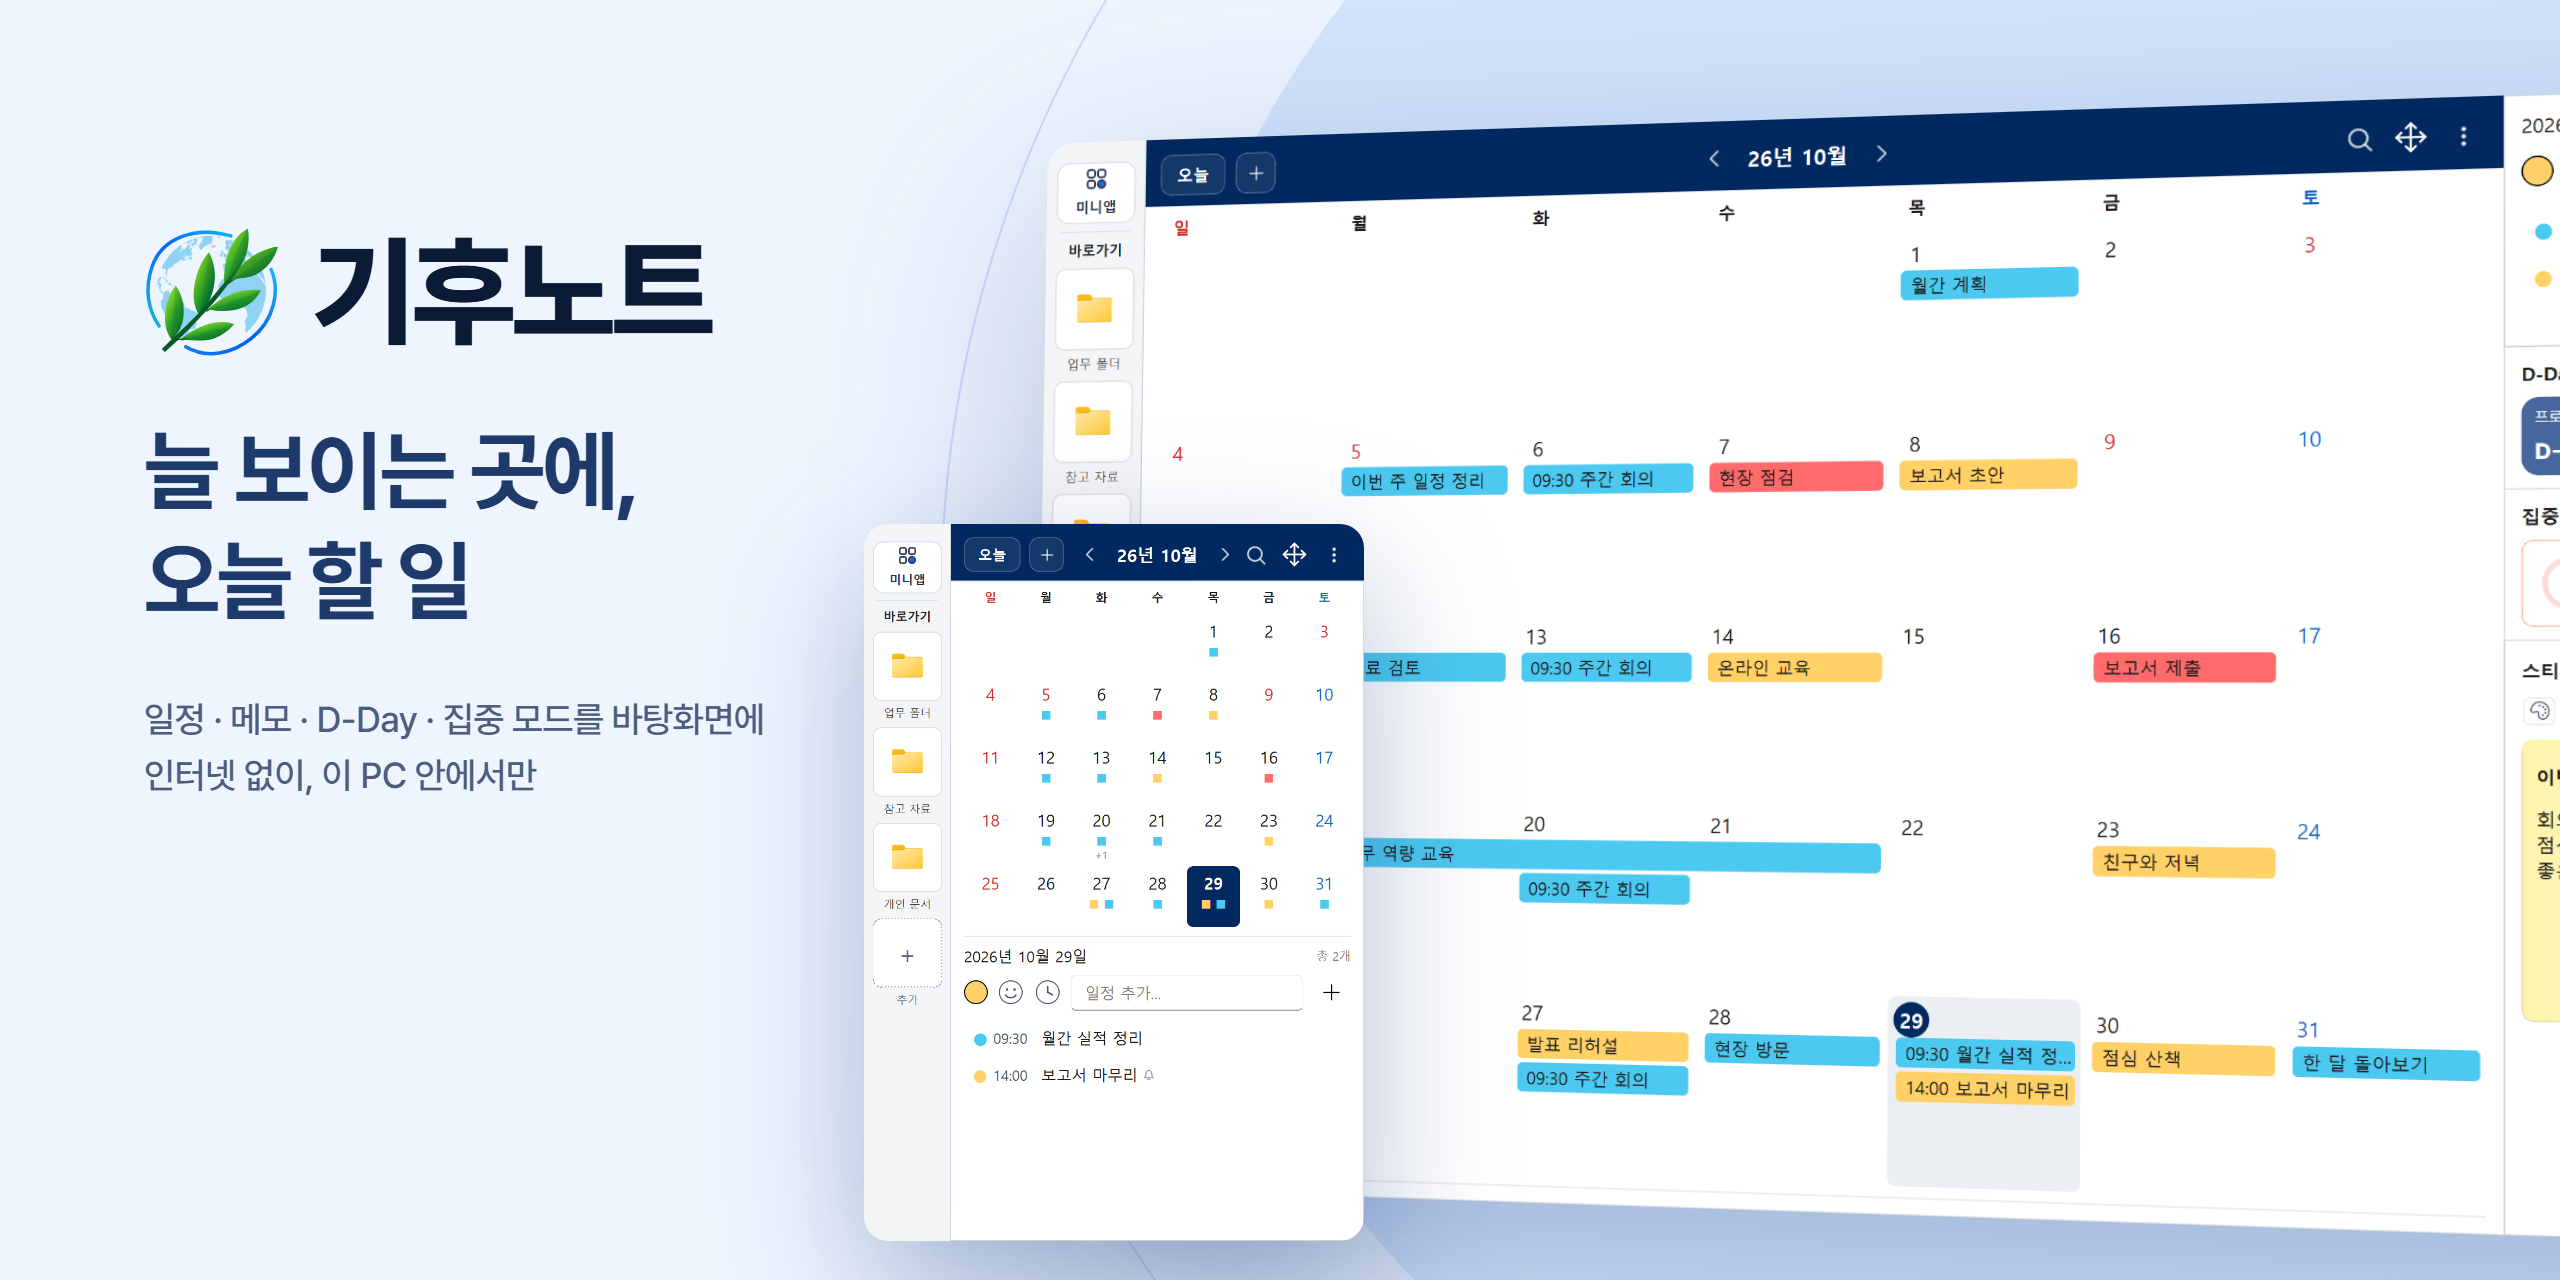
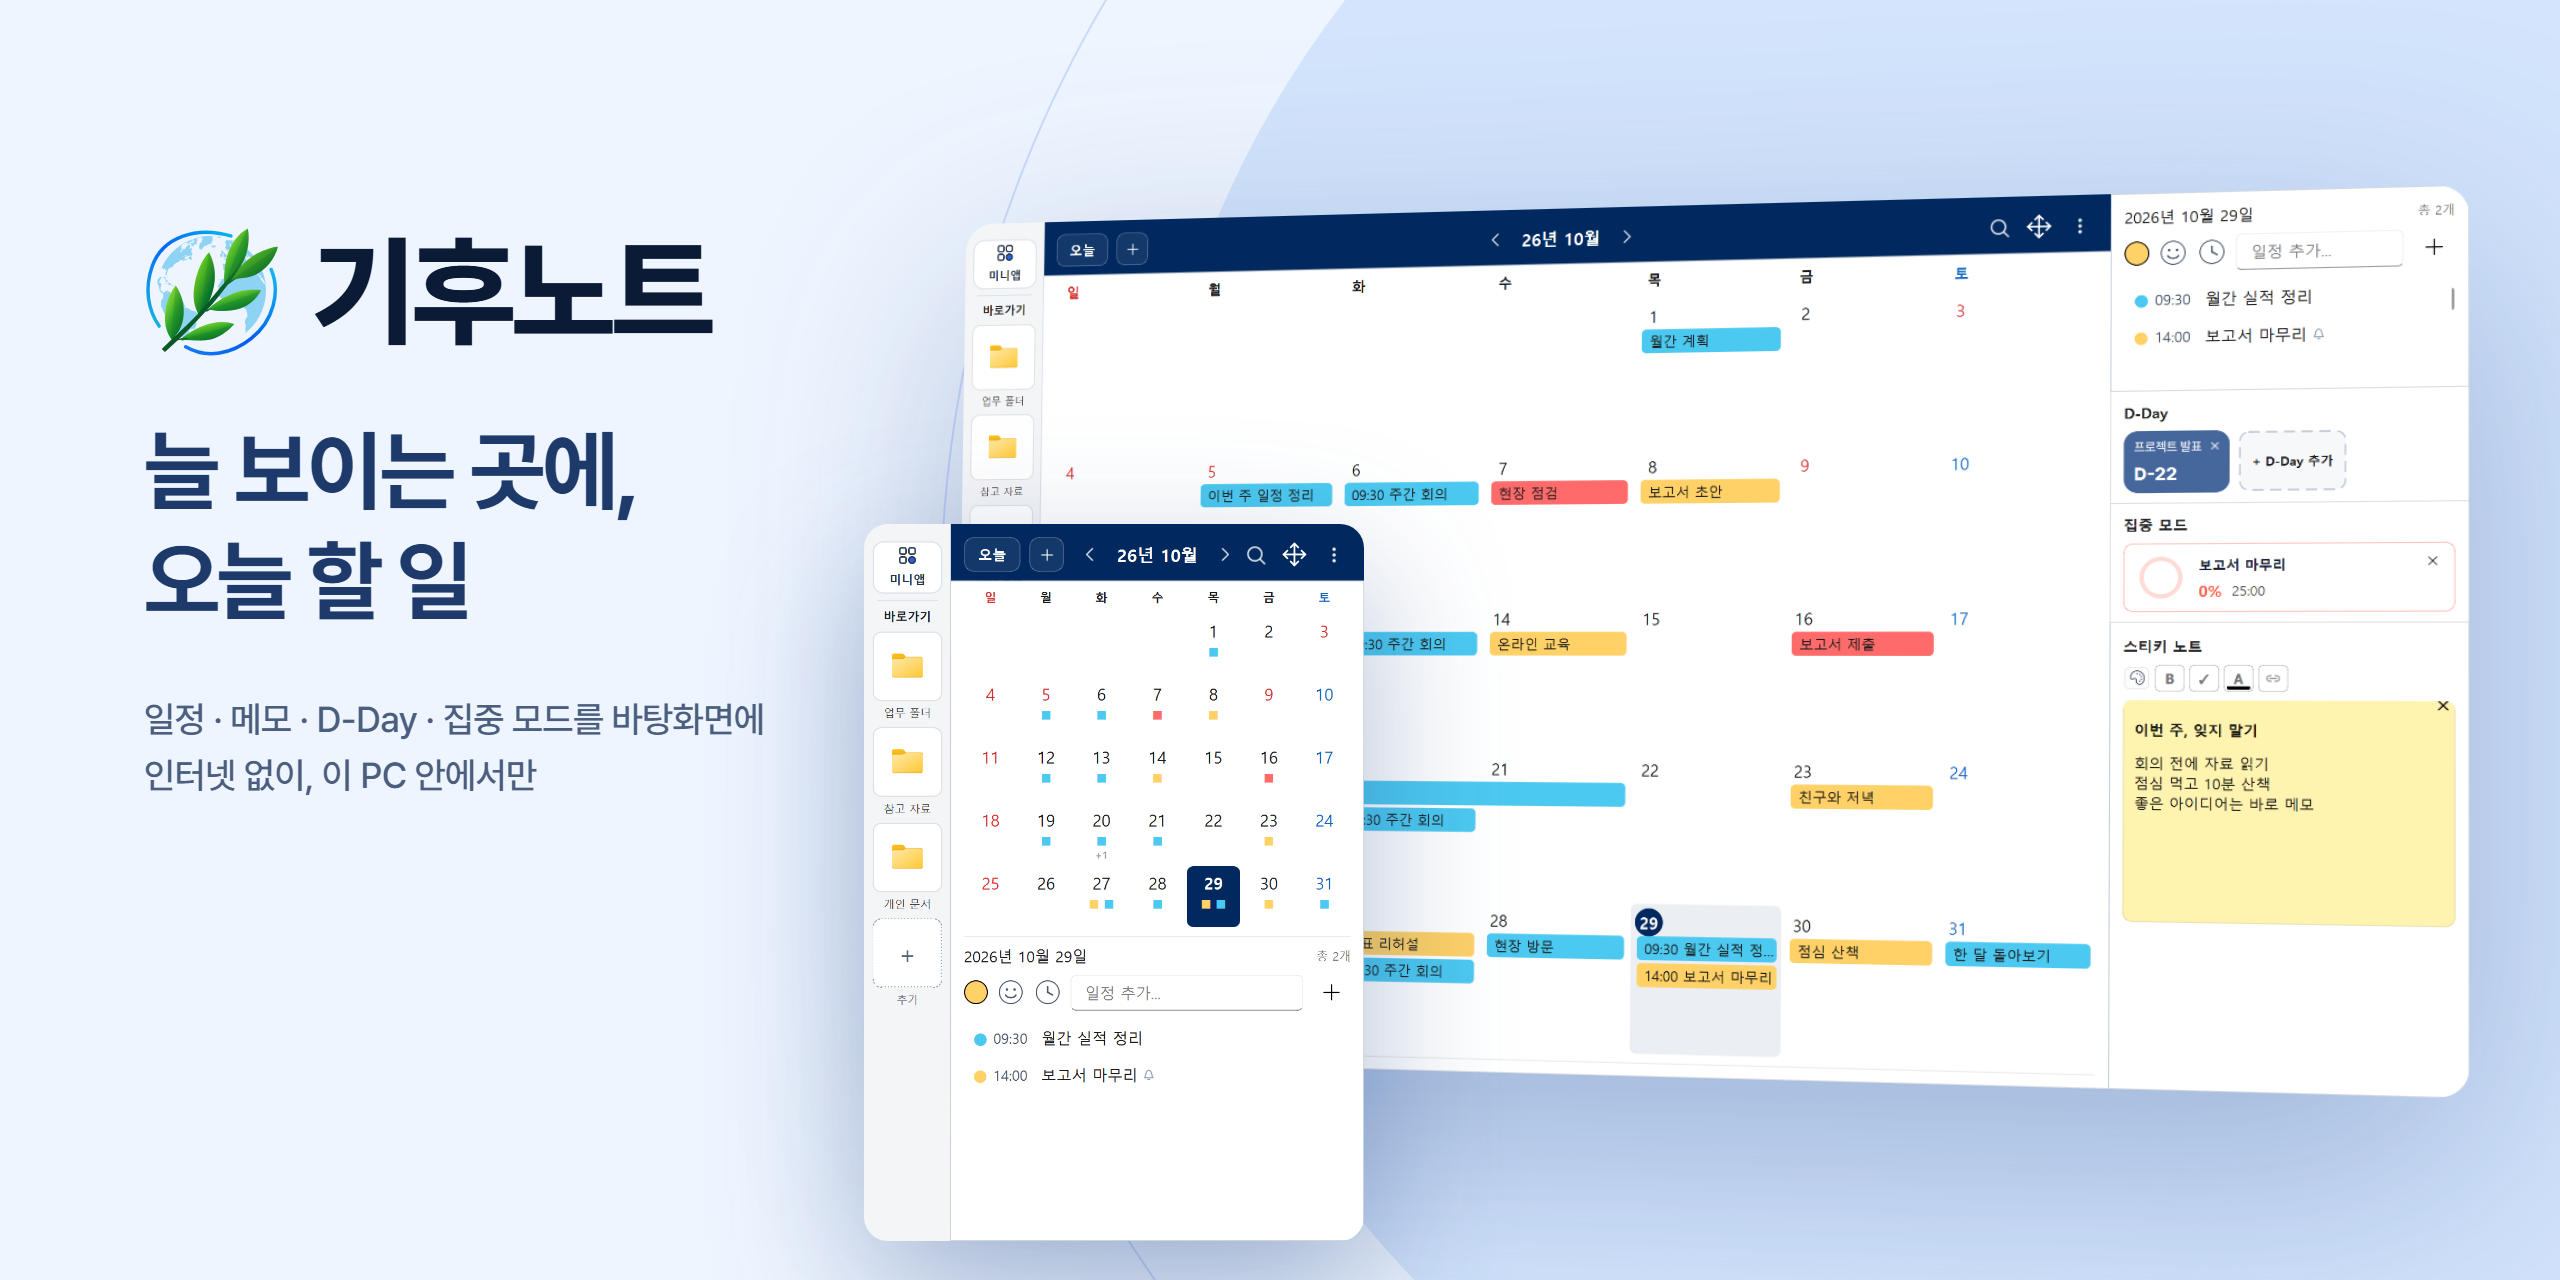
docs: README 대표 이미지의 크게 모드 창이 잘리지 않게 다시 렌더

diff --git a/docs/work/2026-10-29-readme-hero-a1.md b/docs/work/2026-10-29-readme-hero-a1.md
@@ -37,3 +37,15 @@
 - 남은 문제 / 수동 확인: GitLab 웹에서 실제 표시 확인.
 - 변경한 정본 문서: README 대표 이미지와 대체 텍스트.
 - 배포·커밋·push: 사용자 승인에 따라 `README.md`, `readme/app.png`, 이 기록만 커밋하고 `git push origin main`으로 올린다. EXE 배포는 하지 않는다.
+
+## 2026-11-03 후속: 크게 모드 오른쪽 잘림 수정
+
+- 요청: 대표 이미지의 크게 모드 창이 오른쪽 사이드바(일정 목록·D-Day·집중 모드·스티키 노트)에서 잘려 보인다. 전부 보이게 다시 만든다.
+- 원인: `.large`가 `left:520px; width:900px`이고 `rotateY(-17deg)` 원근으로 오른쪽 끝이 가까워져 커지므로, 투영된 오른쪽 끝이 약 1486px로 1280px 화면을 넘었다.
+- 변경: 새 소스 `output/design/readme-hero-a1-20261103/`에서 `.large`만 `left:480px; top:111px; width:720px`로 바꿨다(투영 오른쪽 끝 약 1235px). 회전·그림자·작게 창·글자·배경은 그대로다.
+
+| 명령/범위 | 상태 | 실행 ID / 결과 경로 | 검사 입력·유의사항 |
+|---|---|---|---|
+| `render.py` 렌더 | 통과 | `output/harness/20261103-readme-hero-a1/`, `output/design/readme-hero-a1-20261103/hero-final.png` | 2560×1280 RGB, 크게 창 오른쪽 사이드바 전체·둥근 모서리 보임 시각 확인 |
[1 lines of base64/hex data omitted]
+| 전체 pytest / release | 미실행 | 해당 없음 | 제품 코드·EXE 변경 없음 |
